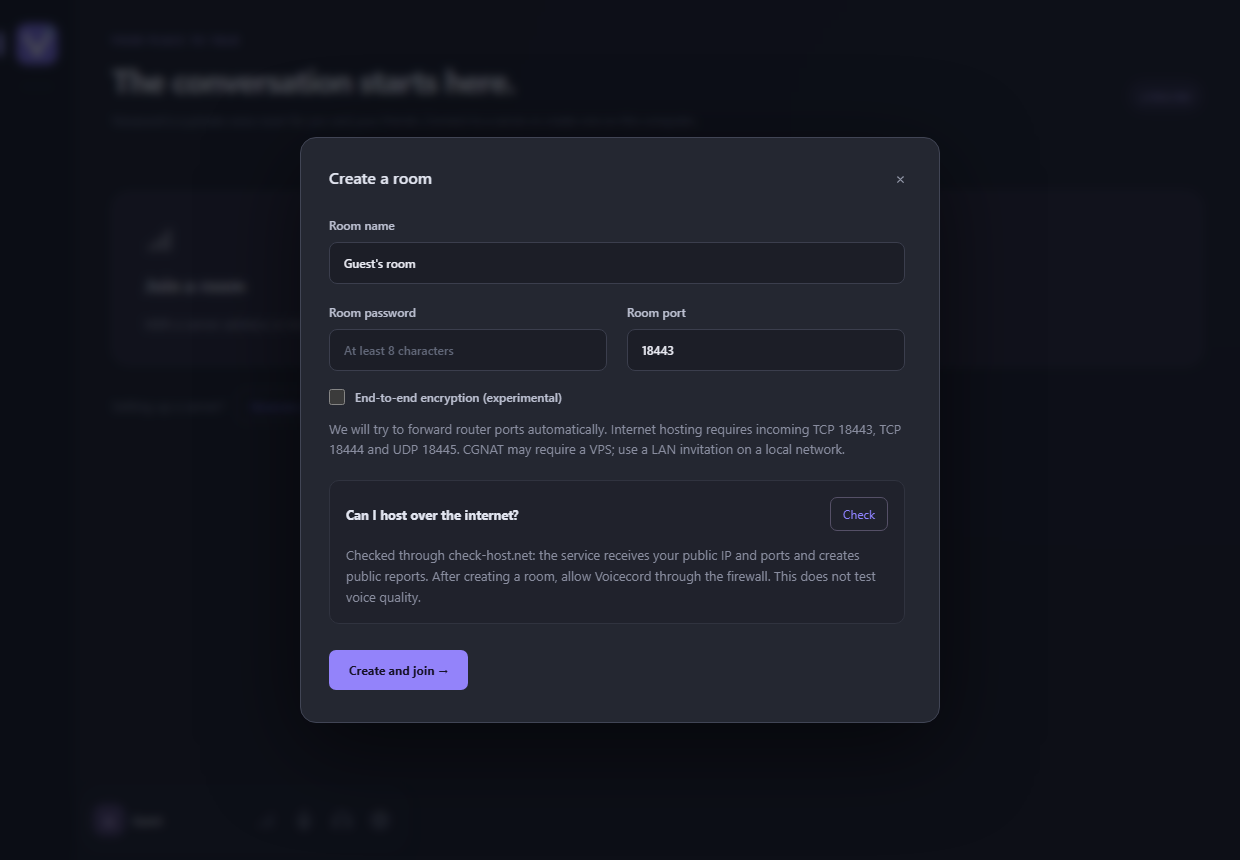
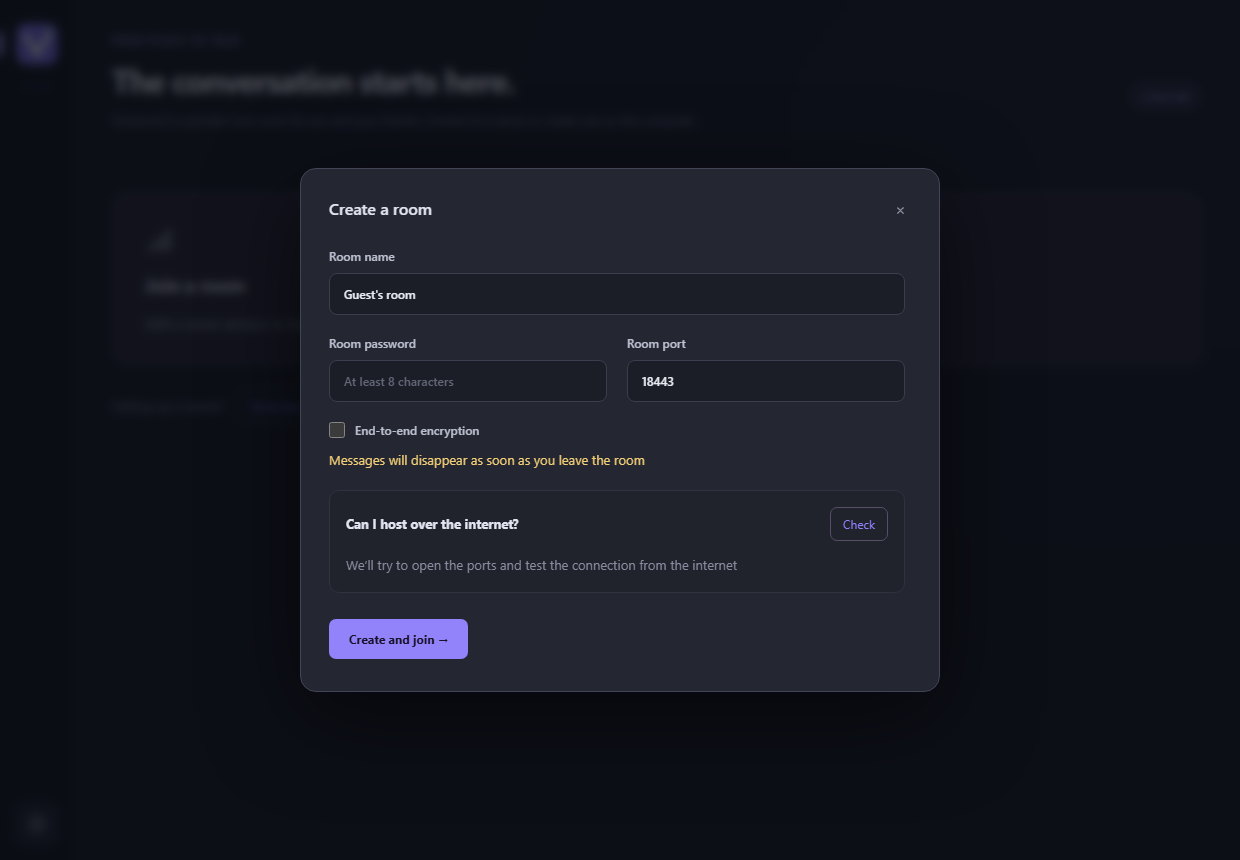
Refresh Voicecord 0.4.0 screenshots and documentation

diff --git a/website/ru/index.html b/website/ru/index.html
@@ -12,10 +12,10 @@
   <link rel="alternate" hreflang="x-default" href="https://ilyarusskikh.github.io/voicecord/">
   <meta property="og:type" content="website">
   <meta property="og:title" content="Voicecord — ваша голосовая комната">
-  <meta property="og:description" content="Голосовой чат для Windows с открытым кодом. Без аккаунтов. На вашем ПК или Linux VPS. Предварительная версия 0.3.0.">
+  <meta property="og:description" content="Голосовой чат для Windows с открытым кодом. Без аккаунтов. На вашем ПК или Linux VPS. Предварительная версия 0.4.0.">
   <meta property="og:url" content="https://ilyarusskikh.github.io/voicecord/ru/">
-  <meta property="og:image" content="https://ilyarusskikh.github.io/voicecord/assets/home.png">
-  <meta property="og:image:alt" content="Главный экран Voicecord с кнопками входа и создания голосовой комнаты">
+  <meta property="og:image" content="https://ilyarusskikh.github.io/voicecord/assets/room-chat.png">
+  <meta property="og:image:alt" content="Комната Voicecord с тремя участниками, кнопками звонка и зашифрованным текстовым чатом">
   <meta property="og:locale" content="ru_RU">
   <meta property="og:locale:alternate" content="en_US">
   <link rel="icon" href="../assets/voicecord.svg" type="image/svg+xml">
@@ -31,22 +31,23 @@
   <section class="hero">
     <div class="eyebrow">Открытый код · Свой сервер · Windows</div>
     <h1>Ваши друзья.<br>Ваш сервер.<br><span>Ваша комната.</span></h1>
-    <p class="lead">Голосовой чат для совместных игр и небольших сообществ. Создайте комнату на своём ПК или оставьте её работать на Linux VPS. Для входа — приглашение и никнейм. Без аккаунтов.</p>
-    <div class="actions"><a class="button" href="https://github.com/IlyaRusskikh/voicecord/releases/download/v0.3.0/Voicecord.Setup.0.3.0.exe">Скачать для Windows x64 ↓</a><a class="button secondary" href="https://github.com/IlyaRusskikh/voicecord/blob/main/docs/SERVER.md">Установить Linux-сервер ↗</a></div>
-    <p class="fine">0.3.0 — предварительная версия · Windows 10/11 x64 · Интерфейс Русский / English</p>
-    <p class="fine">Установщик без цифровой подписи · Проверяемое автообновление · <a href="https://github.com/IlyaRusskikh/voicecord/releases/tag/v0.3.0">Описание выпуска, SHA-256 и исходники</a></p>
+    <p class="lead">Голос и текстовый чат для совместных игр и небольших сообществ. Создайте комнату на своём ПК или оставьте её работать на Linux VPS. Для входа — приглашение и никнейм. Без аккаунтов.</p>
+    <div class="actions"><a class="button" href="https://github.com/IlyaRusskikh/voicecord/releases/download/v0.4.0/Voicecord.Setup.0.4.0.exe">Скачать для Windows x64 ↓</a><a class="button secondary" href="https://github.com/IlyaRusskikh/voicecord/blob/main/docs/SERVER.md">Установить Linux-сервер ↗</a></div>
+    <p class="fine">0.4.0 — предварительная версия · Windows 10/11 x64 · Интерфейс Русский / English</p>
+    <p class="fine">Установщик без цифровой подписи · Проверяемое автообновление · <a href="https://github.com/IlyaRusskikh/voicecord/releases/tag/v0.4.0">Описание выпуска, SHA-256 и исходники</a></p>
   </section>
-  <figure class="hero-shot"><a href="../assets/home.png"><img src="../assets/home.png" width="1240" height="860" fetchpriority="high" alt="Главный экран Voicecord: присоединиться к комнате, создать комнату и управление звуком"></a><figcaption>Настоящий интерфейс, снятый в отдельном тестовом профиле. На скриншотах интерфейс выпуска 0.2.0.</figcaption></figure>
+  <figure class="hero-shot"><a href="../assets/room-chat.png"><img src="../assets/room-chat.png" width="1240" height="860" fetchpriority="high" alt="Комната Voicecord с тремя участниками, кнопками звонка и зашифрованным текстовым чатом"></a><figcaption>Voicecord 0.4.0 с тестовыми участниками и перепиской.</figcaption></figure>
   <section class="section" aria-labelledby="features"><h2 id="features">Небольшая комната. Нужные настройки.</h2>
     <div class="features"><article><h3>Размещайте у себя</h3><p>Временная комната на Windows-ПК или постоянный Docker-сервер на Linux amd64/arm64. Гостям достаточно установить клиент.</p></article><article><h3>Убирайте лишний шум</h3><p>Локальное шумоподавление RNNoise, эхоподавление и автоусиление. Выбирайте устройства, чувствительность и громкость.</p></article><article><h3>Говорите как удобно</h3><p>Активация голосом или push-to-talk, глобальные сочетания, mute/deafen и громкость каждого участника. Приложение работает в трее.</p></article></div>
   </section>
+  <section class="section split"><div><div class="eyebrow">В комнате</div><h2>Говорите и пишите в одной комнате.</h2><p>Высоту голосовой панели и чата можно менять. В чате видно, кто печатает, а кнопка перехода открывает непрочитанное. Встроенная комната с E2EE хранит историю до остановки хоста. На VPS с E2EE и настроенной историей переписка хранится в зашифрованном виде до семи дней.</p><p>Выберите аватар и оцените круглый кадр перед сохранением.</p></div><figure><a href="../assets/avatar-crop.png"><img src="../assets/avatar-crop.png" width="1240" height="860" loading="lazy" alt="Круглый предпросмотр с масштабированием и сдвигом изображения."></a><figcaption>Круглый предпросмотр с масштабированием и сдвигом изображения.</figcaption></figure></section>
   <section class="section" id="start"><h2>От скачивания до первого разговора.</h2>
     <ol class="steps"><li><strong>Установите и проверьте звук</strong><p>Установите клиент на каждый Windows-ПК и выберите Русский или English. В настройках задайте никнейм, выберите устройства и проверьте микрофон. Инструменты разработчика не нужны.</p></li><li><strong>Создайте комнату</strong><p>Нажмите «Создать комнату», введите название и пароль от 8 символов. Комната доступна, пока приложение хоста запущено.</p></li><li><strong>Пригласите друга</strong><p>Передайте полное приглашение лично. Друг вставляет его в «Присоединиться к комнате». В одной локальной сети используйте LAN-приглашение.</p></li></ol>
     <p>Для связи через интернет нужны доступные порты хоста. Автопроброс может не сработать при CGNAT. Альтернатива — Linux VPS с публичным IP. <a href="https://github.com/IlyaRusskikh/voicecord/blob/main/README.ru.md">Полная инструкция →</a></p>
   </section>
-  <section class="section split"><div><div class="eyebrow">Перед разговором</div><h2>Сначала услышьте себя.<br>Потом — друзей.</h2><p>Выберите микрофон и динамики, попробуйте шумоподавление и прослушайте микрофон перед подключением.</p><p>Порты хоста по умолчанию: TCP <strong>18443</strong>, TCP <strong>18444</strong>, UDP <strong>18445</strong>. В руководстве сервера описаны проверки firewall и доступности.</p></div><figure><a href="../assets/audio-settings.png"><img src="../assets/audio-settings.png" width="1240" height="886" loading="lazy" alt="Настройки Voicecord: микрофон, динамик, проверка микрофона и шумоподавление"></a><figcaption>Настоящие настройки звука; при съёмке использован синтетический микрофон.</figcaption></figure></section>
-  <section class="section split"><div><div class="eyebrow">Язык и обновления</div><h2>Ваш язык.<br>Проверяемые обновления.</h2><p>Выберите Русский или English в установщике или настройках. Подсказки соединения и сообщения используют выбранный язык.</p><p>При запуске приложение проверяет новые релизы GitHub, включая предварительные. Обновление можно отложить и открыть снова по иконке. Файл проверяется перед установкой, а отдельное окно показывает её ход.</p><p>Уже используете 0.1.0? Один раз установите 0.2.0 вручную, чтобы получать следующие обновления из приложения.</p></div><figure><a href="../assets/language-settings.png"><img src="../assets/language-settings.png" width="1240" height="860" loading="lazy" alt="Настройки Voicecord: выбор языка приложения и никнейм"></a><figcaption>Язык и профиль в Voicecord 0.2.0.</figcaption></figure></section>
-  <section class="section"><h2>Что учитывать в предварительной версии.</h2><div class="limits"><p><strong>Это ранний выпуск.</strong> Реальные микрофоны, чистая установка Windows, игры/PTT, разные внешние сети и полная нагрузка ещё требуют аппаратной приёмки.</p><p>Клиент работает только на Windows. Linux — серверная платформа. Текстового чата, видео, демонстрации экрана и выпущенных веб- или мобильных клиентов нет.</p><p>E2EE включается по желанию и остаётся экспериментальным. Одно шифрование транспорта не исключает доступ медиасервера к звуку. Приглашение может содержать пароль и ключ E2EE — передавайте его лично. <a href="https://github.com/IlyaRusskikh/voicecord/blob/main/docs/E2EE.md">Модель защиты</a>.</p></div></section>
+  <section class="section split"><div><div class="eyebrow">Перед разговором</div><h2>Сначала услышьте себя.<br>Потом — друзей.</h2><p>Выберите микрофон и динамики, попробуйте шумоподавление и прослушайте микрофон перед подключением.</p><p>Порты хоста по умолчанию: TCP <strong>18443</strong>, TCP <strong>18444</strong>, UDP <strong>18445</strong>. В руководстве сервера описаны проверки firewall и доступности.</p></div><figure><a href="../assets/audio-settings.png"><img src="../assets/audio-settings.png" width="1240" height="860" loading="lazy" alt="Настройки Voicecord: микрофон, динамик, проверка микрофона и шумоподавление"></a><figcaption>Настоящие настройки звука; при съёмке использован синтетический микрофон.</figcaption></figure></section>
+  <section class="section split"><div><div class="eyebrow">Язык и обновления</div><h2>Ваш язык.<br>Проверяемые обновления.</h2><p>Выберите Русский или English в установщике или настройках. Подсказки соединения и сообщения используют выбранный язык.</p><p>При запуске приложение проверяет новые релизы GitHub, включая предварительные. Обновление можно отложить и открыть снова по иконке. Файл проверяется перед установкой, а отдельное окно показывает её ход.</p><p>Уже используете 0.1.0? Один раз установите 0.2.0 вручную, чтобы получать следующие обновления из приложения.</p></div><figure><a href="../assets/language-settings.png"><img src="../assets/language-settings.png" width="1240" height="860" loading="lazy" alt="Настройки Voicecord: выбор языка приложения и никнейм"></a><figcaption>Язык и профиль в Voicecord 0.4.0.</figcaption></figure></section>
+  <section class="section"><h2>Что учитывать в предварительной версии.</h2><div class="limits"><p><strong>Это ранний выпуск.</strong> Реальные микрофоны, чистая установка Windows, игры/PTT, разные внешние сети и полная нагрузка ещё требуют аппаратной приёмки.</p><p>Клиент работает только на Windows. Linux — серверная платформа. Видео, демонстрация экрана, веб- и мобильные клиенты пока недоступны.</p><p>E2EE включается по желанию и остаётся экспериментальным. Одно шифрование транспорта не исключает доступ медиасервера к звуку. Приглашение может содержать пароль и ключ E2EE — передавайте его лично. <a href="https://github.com/IlyaRusskikh/voicecord/blob/main/docs/E2EE.md">Модель защиты</a>.</p></div></section>
   <section class="section" id="faq"><h2>Ответы перед первым запуском.</h2>
     <details><summary>Это альтернатива Discord или TeamSpeak?</summary><p>Для небольших голосовых комнат на своём сервере — это целевой сценарий. Voicecord сосредоточен на разговорах без регистрации и не заменяет все возможности этих платформ для сообществ.</p></details>
     <details><summary>Голос передаётся напрямую, по P2P?</summary><p>Голос идёт по WebRTC через медиасервер LiveKit на ПК хоста или вашем VPS. Гостям нужен Windows-клиент, разворачивать свой сервер не требуется.</p></details>

diff --git a/website/index.html b/website/index.html
@@ -12,10 +12,10 @@
   <link rel="alternate" hreflang="x-default" href="https://ilyarusskikh.github.io/voicecord/">
   <meta property="og:type" content="website">
   <meta property="og:title" content="Voicecord — a voice room of your own">
-  <meta property="og:description" content="Open-source voice chat for Windows. No accounts. Host on your PC or a Linux VPS. Public preview 0.3.0.">
+  <meta property="og:description" content="Open-source voice chat for Windows. No accounts. Host on your PC or a Linux VPS. Public preview 0.4.0.">
   <meta property="og:url" content="https://ilyarusskikh.github.io/voicecord/">
-  <meta property="og:image" content="https://ilyarusskikh.github.io/voicecord/assets/home-en.png">
-  <meta property="og:image:alt" content="Voicecord desktop app with options to join or create a voice room">
+  <meta property="og:image" content="https://ilyarusskikh.github.io/voicecord/assets/room-chat-en.png">
+  <meta property="og:image:alt" content="Voicecord room with three participants, call controls and encrypted text chat">
   <meta property="og:locale" content="en_US">
   <meta property="og:locale:alternate" content="ru_RU">
   <link rel="icon" href="assets/voicecord.svg" type="image/svg+xml">
@@ -31,22 +31,23 @@
   <section class="hero">
     <div class="eyebrow">Open source · Self-hosted · Windows</div>
     <h1>Your friends.<br>Your server.<br><span>Your voice room.</span></h1>
-    <p class="lead">Voice chat for a game night or a small community. Create a room on your PC or keep it running on a Linux VPS. Join with an invitation and a nickname. No accounts.</p>
-    <div class="actions"><a class="button" href="https://github.com/IlyaRusskikh/voicecord/releases/download/v0.3.0/Voicecord.Setup.0.3.0.exe">Download for Windows x64 ↓</a><a class="button secondary" href="https://github.com/IlyaRusskikh/voicecord/blob/main/docs/SERVER.md">Host a Linux server ↗</a></div>
-    <p class="fine">0.3.0 public preview · Windows 10/11 x64 · English / Русский interface</p>
-    <p class="fine">Unsigned installer · Verified automatic updates · <a href="https://github.com/IlyaRusskikh/voicecord/releases/tag/v0.3.0">Release notes, checksums and source</a></p>
+    <p class="lead">Voice and text chat for a game night or a small community. Create a room on your PC or keep it running on a Linux VPS. Join with an invitation and a nickname. No accounts.</p>
+    <div class="actions"><a class="button" href="https://github.com/IlyaRusskikh/voicecord/releases/download/v0.4.0/Voicecord.Setup.0.4.0.exe">Download for Windows x64 ↓</a><a class="button secondary" href="https://github.com/IlyaRusskikh/voicecord/blob/main/docs/SERVER.md">Host a Linux server ↗</a></div>
+    <p class="fine">0.4.0 public preview · Windows 10/11 x64 · English / Русский interface</p>
+    <p class="fine">Unsigned installer · Verified automatic updates · <a href="https://github.com/IlyaRusskikh/voicecord/releases/tag/v0.4.0">Release notes, checksums and source</a></p>
   </section>
-  <figure class="hero-shot"><a href="assets/home-en.png"><img src="assets/home-en.png" width="1240" height="860" fetchpriority="high" alt="Voicecord home screen, with Join room and Create room buttons and audio controls"></a><figcaption>Actual desktop interface, captured in an isolated test profile. Screenshots show the 0.2.0 release interface.</figcaption></figure>
+  <figure class="hero-shot"><a href="assets/room-chat-en.png"><img src="assets/room-chat-en.png" width="1240" height="860" fetchpriority="high" alt="Voicecord room with three participants, call controls and encrypted text chat"></a><figcaption>Voicecord 0.4.0 with demo participants and messages.</figcaption></figure>
   <section class="section" aria-labelledby="features"><h2 id="features">A small room. The controls you need.</h2>
     <div class="features"><article><h3>Host it yourself</h3><p>Temporary rooms on a Windows PC, or a persistent Docker server on Linux amd64/arm64. Your guests just install the client.</p></article><article><h3>Keep the noise down</h3><p>Local RNNoise noise suppression, echo cancellation and automatic gain control. Adjust devices, sensitivity and volume.</p></article><article><h3>Speak your way</h3><p>Voice activation or push-to-talk, global shortcuts, mute/deafen and per-person volume. Keep the app in the tray.</p></article></div>
   </section>
+  <section class="section split"><div><div class="eyebrow">In the room</div><h2>Keep talking. Share a message.</h2><p>The room has resizable voice and text panels, with typing indicators and a jump to unread messages. Built-in rooms with E2EE keep history until the host stops. VPS rooms configured for E2EE and chat history can retain encrypted messages for up to seven days.</p><p>Choose a profile picture and preview the circular crop before saving.</p></div><figure><a href="assets/avatar-crop-en.png"><img src="assets/avatar-crop-en.png" width="1240" height="860" loading="lazy" alt="Circular avatar preview with zoom and repositioning."></a><figcaption>Circular avatar preview with zoom and repositioning.</figcaption></figure></section>
   <section class="section" id="start"><h2>From download to first conversation.</h2>
     <ol class="steps"><li><strong>Install &amp; check your mic</strong><p>Install the Windows client on each PC and choose English or Russian. In Settings, choose a nickname, select audio devices and test your microphone. No developer tools are needed.</p></li><li><strong>Create a room</strong><p>Choose Create room (Создать комнату), enter a name and a password of at least 8 characters. The room stays up while the host app runs.</p></li><li><strong>Invite a friend</strong><p>Share the full invitation privately. Your friend pastes it into Join room (Присоединиться к комнате). On the same network, use the LAN invitation.</p></li></ol>
     <p>Across the internet, the host needs reachable ports. Automatic port mapping may not work behind CGNAT. A Linux VPS with a public IP is an alternative. <a href="https://github.com/IlyaRusskikh/voicecord/blob/main/README.md">Read the full setup guide →</a></p>
   </section>
-  <section class="section split"><div><div class="eyebrow">Before the call</div><h2>Hear yourself.<br>Then join your friends.</h2><p>Choose your microphone and speakers, try noise suppression and listen to a microphone test before connecting.</p><p>Default hosting ports: TCP <strong>18443</strong>, TCP <strong>18444</strong>, UDP <strong>18445</strong>. The server setup guide covers firewall and connectivity checks.</p></div><figure><a href="assets/audio-settings-en.png"><img src="assets/audio-settings-en.png" width="1240" height="886" loading="lazy" alt="Voicecord settings showing microphone, speaker, monitoring and noise suppression controls"></a><figcaption>Real audio settings; capture uses a synthetic microphone.</figcaption></figure></section>
-  <section class="section split"><div><div class="eyebrow">Language and updates</div><h2>Your language.<br>Verified updates.</h2><p>Choose English or Russian in the installer or Settings. Connection tooltips and status messages follow your choice.</p><p>The app checks GitHub releases at startup, including previews. Update now or defer it; an icon lets you reopen the offer. Downloads are verified before installation, and a separate window shows installation progress.</p><p>Already on 0.1.0? Install 0.2.0 once manually to enable future update offers.</p></div><figure><a href="assets/language-settings-en.png"><img src="assets/language-settings-en.png" width="1240" height="860" loading="lazy" alt="Voicecord English settings with a persistent application language selector"></a><figcaption>Language and profile settings in Voicecord 0.2.0.</figcaption></figure></section>
-  <section class="section"><h2>Try the preview with clear expectations.</h2><div class="limits"><p><strong>This is an early release.</strong> Real microphones, clean Windows installations, games/PTT, separate internet networks and full load still need hardware acceptance testing.</p><p>Windows desktop client only. Linux is a server platform. No text chat, video, screen sharing or released web/mobile client.</p><p>E2EE is optional and experimental. Transport encryption alone does not prevent the media server from accessing audio. Invitations can contain the password and E2EE key: keep them private. <a href="https://github.com/IlyaRusskikh/voicecord/blob/main/docs/E2EE.md">Read the security model</a>.</p></div></section>
+  <section class="section split"><div><div class="eyebrow">Before the call</div><h2>Hear yourself.<br>Then join your friends.</h2><p>Choose your microphone and speakers, try noise suppression and listen to a microphone test before connecting.</p><p>Default hosting ports: TCP <strong>18443</strong>, TCP <strong>18444</strong>, UDP <strong>18445</strong>. The server setup guide covers firewall and connectivity checks.</p></div><figure><a href="assets/audio-settings-en.png"><img src="assets/audio-settings-en.png" width="1240" height="860" loading="lazy" alt="Voicecord settings showing microphone, speaker, monitoring and noise suppression controls"></a><figcaption>Real audio settings; capture uses a synthetic microphone.</figcaption></figure></section>
+  <section class="section split"><div><div class="eyebrow">Language and updates</div><h2>Your language.<br>Verified updates.</h2><p>Choose English or Russian in the installer or Settings. Connection tooltips and status messages follow your choice.</p><p>The app checks GitHub releases at startup, including previews. Update now or defer it; an icon lets you reopen the offer. Downloads are verified before installation, and a separate window shows installation progress.</p><p>Already on 0.1.0? Install 0.2.0 once manually to enable future update offers.</p></div><figure><a href="assets/language-settings-en.png"><img src="assets/language-settings-en.png" width="1240" height="860" loading="lazy" alt="Voicecord English settings with a persistent application language selector"></a><figcaption>Language and profile settings in Voicecord 0.4.0.</figcaption></figure></section>
+  <section class="section"><h2>Try the preview with clear expectations.</h2><div class="limits"><p><strong>This is an early release.</strong> Real microphones, clean Windows installations, games/PTT, separate internet networks and full load still need hardware acceptance testing.</p><p>Windows desktop client only. Linux is a server platform. Video, screen sharing and web or mobile clients are unavailable.</p><p>E2EE is optional and experimental. Transport encryption alone does not prevent the media server from accessing audio. Invitations can contain the password and E2EE key: keep them private. <a href="https://github.com/IlyaRusskikh/voicecord/blob/main/docs/E2EE.md">Read the security model</a>.</p></div></section>
   <section class="section" id="faq"><h2>A few things to know.</h2>
     <details><summary>Is this an alternative to Discord or TeamSpeak?</summary><p>For small, self-hosted voice rooms, that is the use case. Voicecord focuses on account-free conversations. It does not replace their broader community features.</p></details>
     <details><summary>Is voice peer-to-peer?</summary><p>Voice uses WebRTC through a LiveKit media server running on the host PC or your VPS. Guests need the Windows client, not their own server.</p></details>

diff --git a/README.md b/README.md
@@ -4,9 +4,9 @@
 
 Voicecord is an **alternative to Discord and TeamSpeak for voice chat** on Windows. Get friends together before a match, talk to your team while you play, or give your community a room it can come back to. Join with an invitation and a nickname. No account required.
 
-**[Download Voicecord 0.3.0 for Windows 10/11 (x64)](https://github.com/IlyaRusskikh/voicecord/releases/download/v0.3.0/Voicecord.Setup.0.3.0.exe)** · [Get started](#get-started) · [Self-hosting guide (Russian)](docs/SERVER.md)
+**[Download Voicecord 0.4.0 for Windows 10/11 (x64)](https://github.com/IlyaRusskikh/voicecord/releases/download/v0.4.0/Voicecord.Setup.0.4.0.exe)** · [Get started](#get-started) · [Self-hosting guide (Russian)](docs/SERVER.md)
 
-![Voicecord home screen with options to create a room and join by invitation](website/assets/home-en.png)
+![Voicecord room with three participants, call controls and encrypted text chat](website/assets/room-chat-en.png)
 
 ## What you can do with Voicecord
 
@@ -21,7 +21,7 @@ Voicecord takes inspiration from **Discord** for easy-to-join voice rooms and in
 - **Set up audio the way you like it.** Choose your microphone and headphones, listen to a mic test, and adjust each person's volume separately.
 - **Talk when you speak or hold a key.** Choose voice activation or Push-to-Talk. Use global shortcuts for microphone mute and incoming audio while your game is open.
 - **Manage your call.** Use the controls above the chat divider to mute, switch audio devices, or leave. Hover over an avatar to reveal the participant’s name and signal icon. Rest the pointer on the icon to see their server ping and incoming audio packet loss.
-- **Set a profile picture.** Under **Settings → About me**, choose a PNG, JPEG, or WebP, then zoom and position the crop. Participants see your current nickname and avatar in the room and in retained chat history.
+- **Set a profile picture.** Under **Settings → About me**, choose a PNG, JPEG, or WebP. Zoom and position the image in the circular preview. Participants see your current nickname and avatar in the room and in retained chat history.
 - **Make speech easier to hear.** RNNoise reduces background noise on your PC, echo cancellation reduces echo, and automatic gain control evens out the level of your voice.
 - **Return to your favorite rooms.** Bookmark a server so you can find it again quickly.
 - **Send messages during a call.** The room opens with chat below the participant cards. Press Enter to send or Shift+Enter for a new line. You can send up to three messages per second and see when someone else is typing. Drag the divider to resize either section. Hover over **Features** to see how the room handles encryption and history. Built-in E2EE rooms keep history in memory until the server stops. Standalone servers configured with E2EE and a key fingerprint keep encrypted history for up to seven days.
@@ -37,7 +37,7 @@ Voicecord takes inspiration from **Discord** for easy-to-join voice rooms and in
 
 ## Get started
 
-1. **Install Voicecord.** [Download the installer](https://github.com/IlyaRusskikh/voicecord/releases/download/v0.3.0/Voicecord.Setup.0.3.0.exe) on each Windows PC. Choose English or Russian.
+1. **Install Voicecord.** [Download the installer](https://github.com/IlyaRusskikh/voicecord/releases/download/v0.4.0/Voicecord.Setup.0.4.0.exe) on each Windows PC. Choose English or Russian.
 2. **Pick a nickname.** Open **Settings → About me** and enter a nickname. You can test your microphone under **Voice**.
 3. **Get your friends together.** Select **Create a room**, give the room a name, and choose a password of at least 8 characters. Share the full invitation privately. Your friend opens **Join a room** and pastes the link.
 
@@ -100,4 +100,4 @@ Voicecord is licensed under [GNU AGPL-3.0-only](LICENSE). Third-party components
 
 ## Project status
 
-**0.3.0 is a public pre-release.** It adds participant counts and drag-to-reorder bookmarks, quick audio device selection, and tray startup. Counts on a VPS require server 0.3.0. Corresponding source and SHA-256 are available in the [v0.3.0 release](https://github.com/IlyaRusskikh/voicecord/releases/tag/v0.3.0). [Changelog](CHANGELOG.md).
+**0.4.0 is a public pre-release.** It adds room chat, avatars, and a resizable call layout. Encrypted chat history on a VPS requires server 0.4.0 with E2EE and a configured key fingerprint. See the [v0.4.0 release](https://github.com/IlyaRusskikh/voicecord/releases/tag/v0.4.0) for the corresponding source and SHA-256. [Changelog](CHANGELOG.md).

diff --git a/docs/GUIDE.ru.md b/docs/GUIDE.ru.md
@@ -1,6 +1,6 @@
 # Voicecord
 
-Частная голосовая комната для Windows 10/11. Вход по IP, общему паролю и никнейму. Без аккаунтов, чата и базы данных.
+Частная голосовая комната с текстовым чатом для Windows 10/11. Вход по приглашению или адресу сервера, общему паролю и никнейму. Аккаунт не нужен.
 
 **Стек:** Electron 45 / React 19 / TypeScript 7 / LiveKit JS 2.23; Go 1.27; LiveKit Server 1.13.11; Caddy 2.11.7. Точные JS-версии зафиксированы в `package-lock.json`.
 
@@ -40,6 +40,24 @@
 Подтверждение проброса роутером не означает проверенную доступность из интернета. При CGNAT, двойном NAT, сетевых ограничениях или запрете автопроброса используйте приглашение для локальной сети либо отдельный VPS. Hole punching, STUN для поиска адреса хоста и ретранслятор в этот режим не добавлены. Встроенный WebRTC-транспорт LiveKit сохраняется.
 
 После подключения можно добавить комнату в закладки кнопкой рядом с её названием. Пароль и ключ E2EE сохраняются в защищённом хранилище, адрес без секретного фрагмента и название появляются на боковой панели. Контекстное меню позволяет удалить закладку вместе с сохранёнными секретами. После перезапуска встроенного сервера гостям нужно новое приглашение с отпечатком нового сертификата. История встроенной комнаты очищается при остановке сервера. Для постоянного адреса используйте отдельный сервер на VPS.
+
+### Чат и профиль
+
+Чат открыт под участниками. Перетащите разделитель, чтобы изменить высоту панелей.
+Enter отправляет сообщение, Shift+Enter добавляет новую строку. Индикатор над полем
+показывает, кто печатает. При наличии непрочитанных сообщений кнопка «Перейти к новым»
+прокручивает к первому из них.
+
+В комнате без E2EE переписка доступна до выхода. Встроенная комната с E2EE
+держит историю в памяти до остановки сервера. Сервер на VPS с E2EE и настроенным
+отпечатком ключа сохраняет до 500 зашифрованных сообщений на срок до семи дней.
+Условия конкретной комнаты указаны в подсказке «Особенности».
+
+В **Настройки → Обо мне** выберите PNG, JPEG или WebP. Перетащите изображение
+и настройте масштаб в круглом предпросмотре. Сохранённый аватар появится в комнате
+и рядом с сообщениями.
+
+![Круглый предпросмотр аватара в Voicecord](../website/assets/avatar-crop.png)
 
 ## Клиент: разработка
 

diff --git a/website/README.md b/website/README.md
@@ -46,9 +46,10 @@ Do not advertise unreleased behavior as available in the installer.
 ## Screenshots
 
 `assets/voicecord.svg` is copied from the project's existing `assets/voicecord.svg`.
-PNG screenshots show the real 0.2.0 desktop renderer and preload in both languages, captured in
-an isolated profile with synthetic audio. No room is started and no invitation
-is generated. Audio settings show fake Chromium audio devices. The published pages match the 0.2.0 release.
+PNG screenshots show the Voicecord 0.4.0 desktop interface in both languages.
+The capture uses an isolated profile, synthetic microphones and a temporary E2EE
+room populated with demo participants and messages. The invitation dialog is
+closed before capture. Audio settings show fake Chromium audio devices.
 
 After building, regenerate on Windows from the repository root:
 
@@ -56,8 +57,9 @@ After building, regenerate on Windows from the repository root:
 .\node_modules\electron\dist\electron.exe scripts/capture-docs.cjs
 ```
 
-The script captures home, creation, language and audio settings in Russian and
-English. It requires the built native module, uses a new temporary profile, and
+The script captures home, room creation, language and audio settings, circular
+avatar cropping and the room chat in Russian and English. It requires the built
+native module and bundled server. It uses a new temporary profile and
 disables mute/deafen shortcuts in that profile to avoid conflicts with another
 running client. It does not change the user's profile. Inspect every screenshot
 before publication for layout, personal data and secrets.

diff --git a/docs/ACCEPTANCE.md b/docs/ACCEPTANCE.md
@@ -8,7 +8,7 @@
 - [ ] Неверный пароль отклоняется; шестая попытка в минуту ограничивается.
 - [ ] Оба слышат друг друга; участники и индикация речи появляются/исчезают корректно.
 - [ ] Попытки подключиться с повреждённым, просроченным и подписанным чужим ключом JWT отклоняются LiveKit.
-- [ ] С валидным пользовательским токеном LiveKit отклоняет публикацию камеры, экрана и data messages. Проверять реальным SDK против сервера, а не только содержимым JWT.
+- [ ] С валидным пользовательским токеном LiveKit разрешает обмен данными для чата и отклоняет публикацию камеры и экрана. Проверять реальным SDK против сервера, а не только содержимым JWT.
 
 ## Аудиотракт и сравнение с Discord
 
